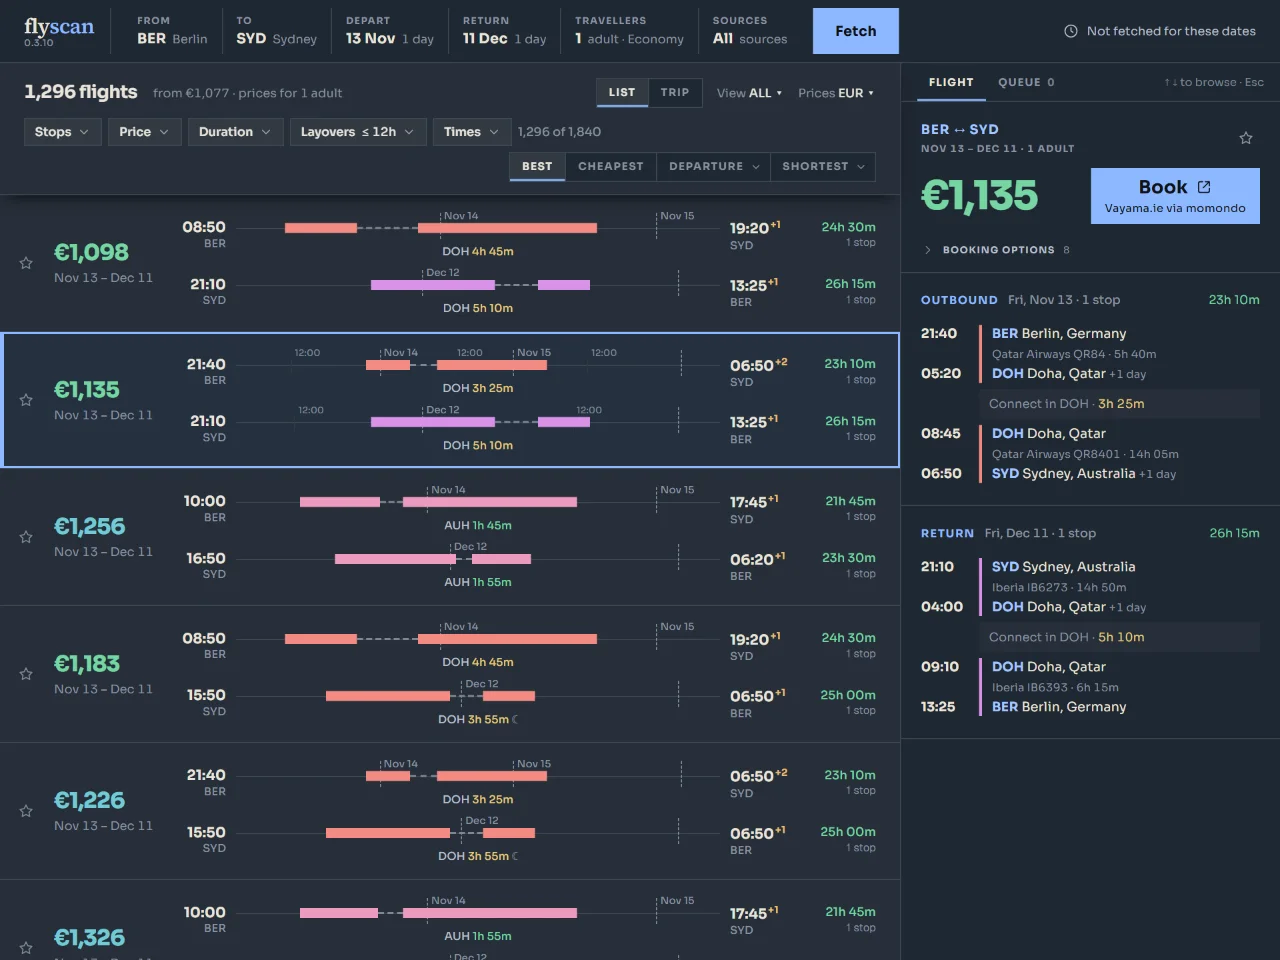
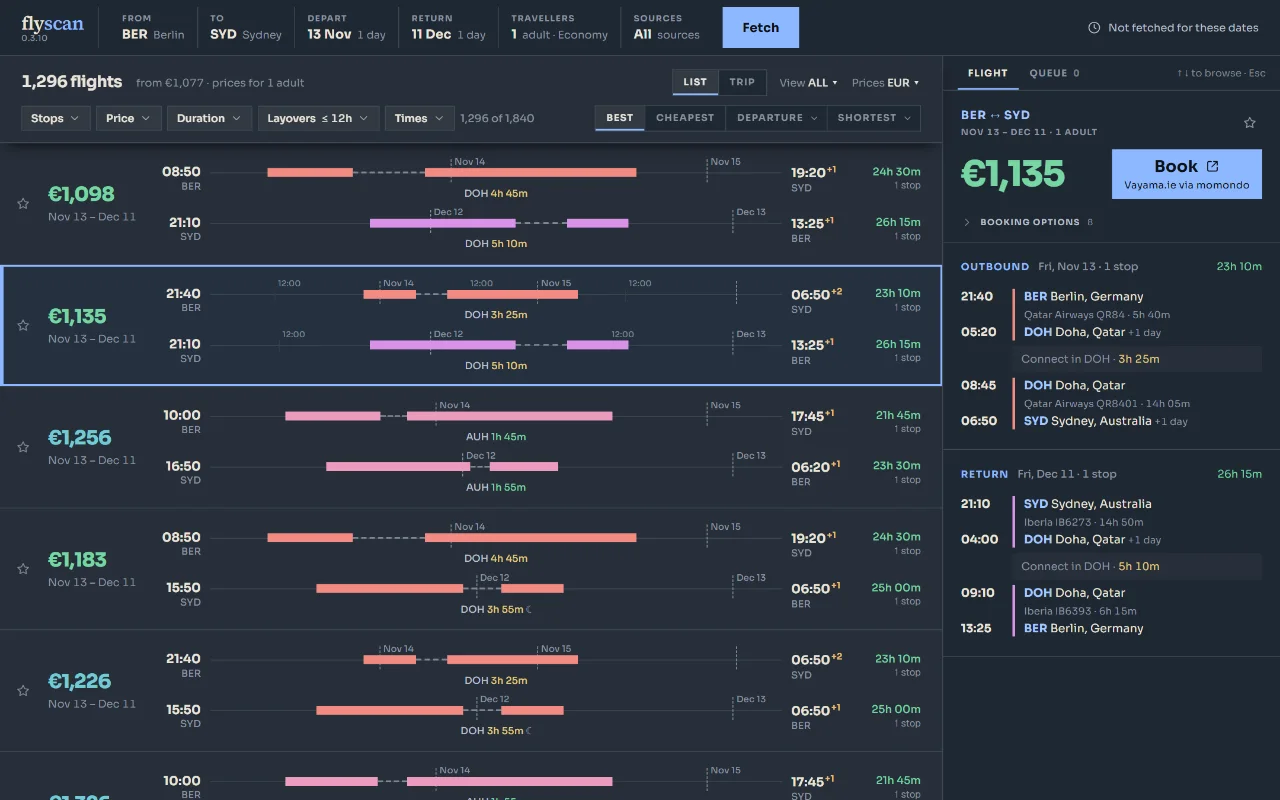
Feature Flyscan first and move OV Berlin to the first project card
Recapture Flyscan at the featured 16:10 size and OV Berlin at the card 4:3 size.

diff --git a/src/data/projects.ts b/src/data/projects.ts
@@ -23,26 +23,26 @@ export interface OtherProject {
 }
 
 export const featuredProject = {
-  title: 'OV Berlin - Cinema Listings',
+  title: 'Flyscan - Flight Metasearch',
   description:
-    'Public PWA for finding original-version and subtitled screenings in Berlin cinemas. A Node.js pipeline merges two listing sources, resolves each film and cinema, and adds ratings, trailers and maps; the app offers fuzzy search, filters, grid and stacked showtime views, and works offline. Built and deployed end to end.',
-  tech: ['React', 'TypeScript', 'Vite', 'Tailwind', 'Node.js', 'PWA', 'GitHub Actions'],
-  screenshot: '/ovberlin-screenshot.webp',
-  screenshotAlt: 'OV Berlin film listings with posters, ratings and screening formats',
-  liveUrl: 'https://ovberlin.online',
-  githubUrl: 'https://github.com/santistebanc/berlin-cinema',
+    'Flight metasearch app for the web and Windows. It searches several sources at once and merges the same flight from different sellers into one row, so price differences show. A Python service with a built-in queue keeps results in SQLite, so searches answer instantly from stored data and fetch only what is missing. The web version runs on flyscan.site; the Windows app adds more sources and signed automatic updates.',
+  tech: ['Python', 'Flask', 'SQLite', 'React', 'TypeScript', 'Tauri', 'Docker'],
+  screenshot: '/flyscan-screenshot.webp',
+  screenshotAlt: 'Flyscan round-trip results with flight timelines and the selected flight in a side panel',
+  liveUrl: 'https://flyscan.site',
+  githubUrl: 'https://github.com/santistebanc/flyscan',
 }
 
 export const projects: Project[] = [
   {
-    id: 'flyscan',
-    title: 'Flyscan',
-    description: 'Flight metasearch app for the web and Windows. It searches several sources at once and merges the same flight from different sellers into one row, so price differences show. A Python service with a built-in queue keeps results in SQLite, so searches answer instantly from stored data and fetch only what is missing.',
-    tech: ['Python', 'Flask', 'SQLite', 'React', 'TypeScript', 'Tauri', 'Docker'],
-    screenshot: '/flyscan-screenshot.webp',
-    screenshotAlt: 'Flyscan round-trip results with flight timelines and the selected flight in a side panel',
-    liveUrl: 'https://flyscan.site',
-    githubUrl: 'https://github.com/santistebanc/flyscan',
+    id: 'ovberlin',
+    title: 'OV Berlin',
+    description: 'Public PWA for finding original-version and subtitled screenings in Berlin cinemas. A Node.js pipeline merges two listing sources, resolves each film and cinema, and adds ratings, trailers and maps; the app offers fuzzy search, filters, grid and stacked showtime views, and works offline.',
+    tech: ['React', 'TypeScript', 'Vite', 'Tailwind', 'Node.js', 'PWA', 'GitHub Actions'],
+    screenshot: '/ovberlin-screenshot.webp',
+    screenshotAlt: 'OV Berlin film listings with posters, ratings and screening formats',
+    liveUrl: 'https://ovberlin.online',
+    githubUrl: 'https://github.com/santistebanc/berlin-cinema',
   },
   {
     id: 'splitnext',
